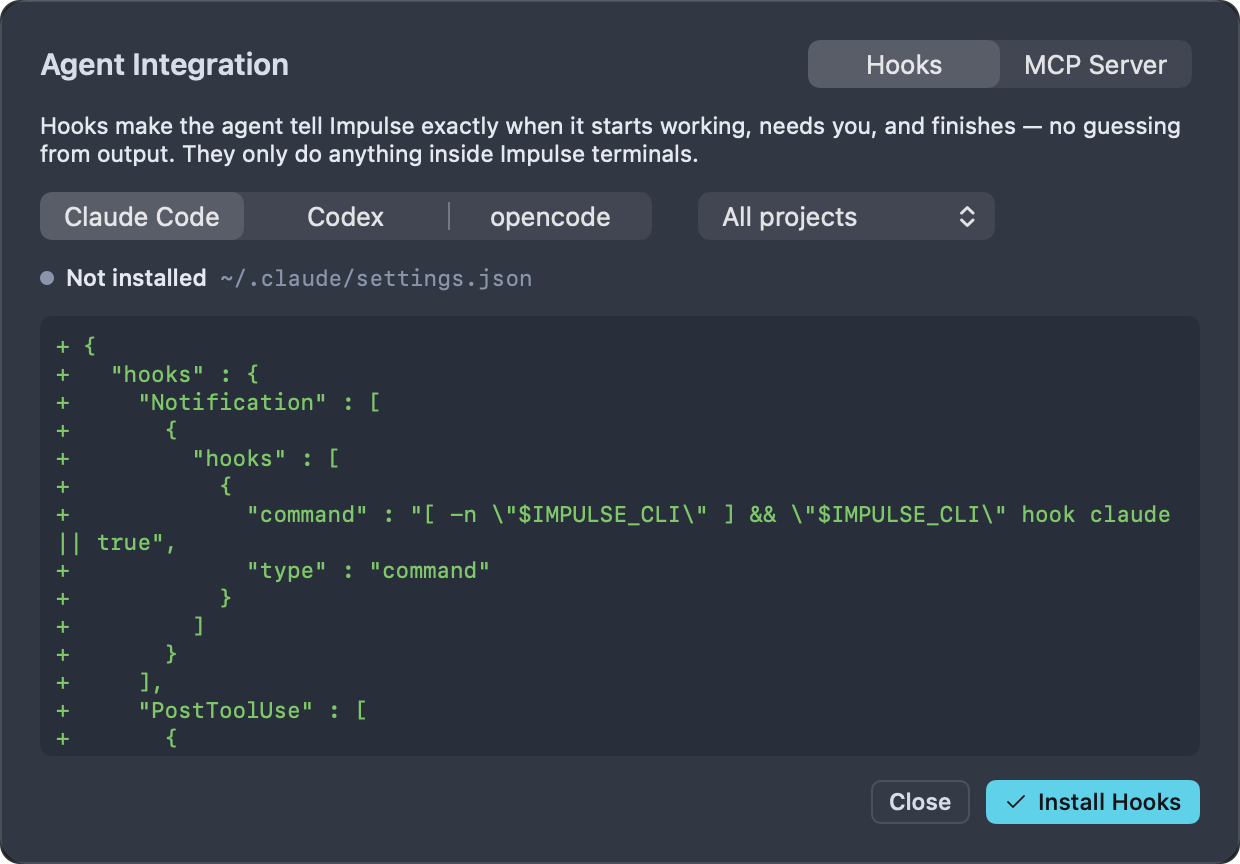
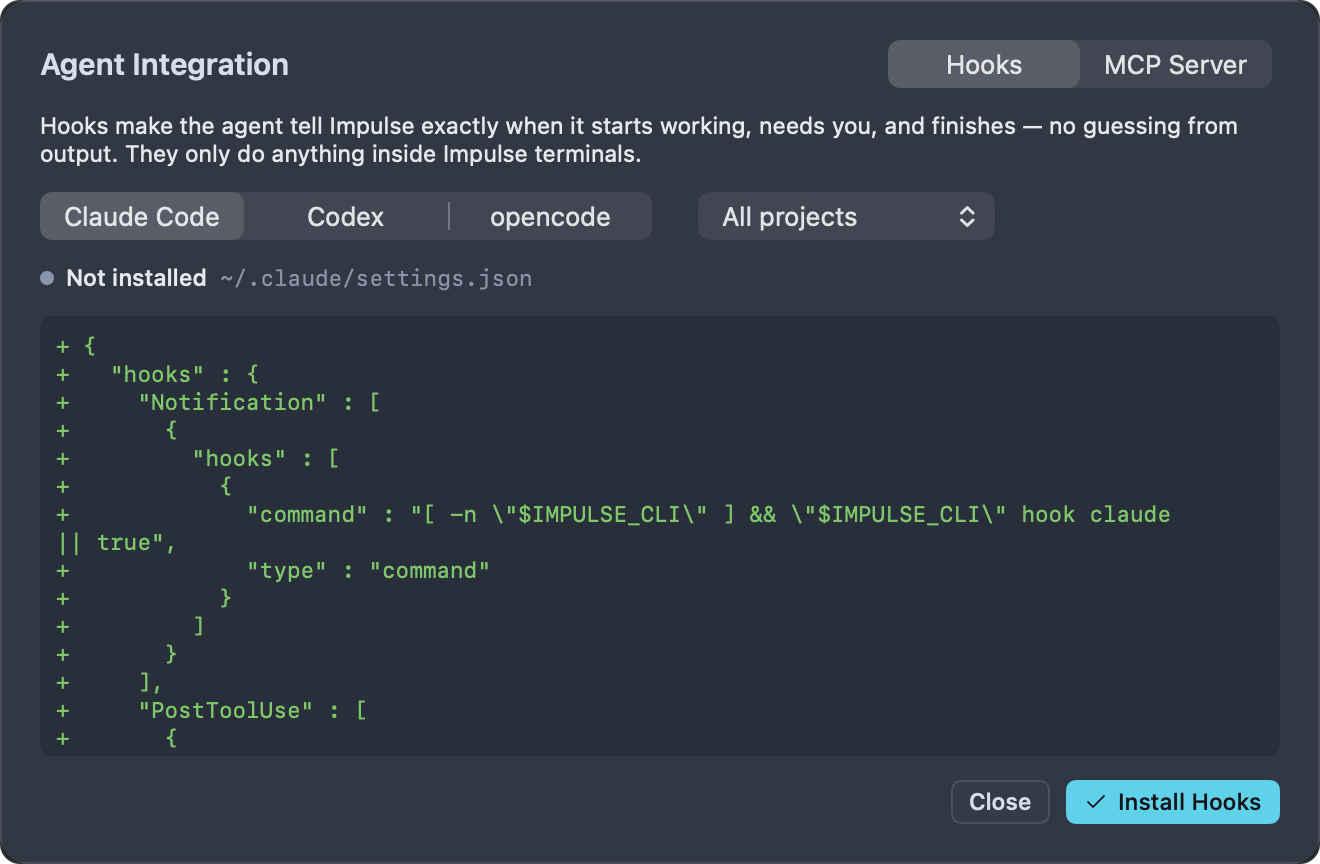
Fit four agents and the scope menu in Agent Integration
With opencode, the MCP Server half has four agents, and with Claude Code
chosen its scope menu sits beside them: a row about 10 points wider than
the sheet, which shifted the whole sheet's content left. The sheet is 40
points wider. The screenshot is captured again.

diff --git a/impulse-macos/Sources/ImpulseApp/App/AgentHooksSheet.swift b/impulse-macos/Sources/ImpulseApp/App/AgentHooksSheet.swift
@@ -455,7 +455,8 @@ struct AgentHooksSheetView: View {
       }
     }
     .padding(20)
-    .frame(width: 620)
+    // Room for four agents and Claude Code's scope menu on one row.
+    .frame(width: 660)
     .background(chrome.overlay)
   }
 }
